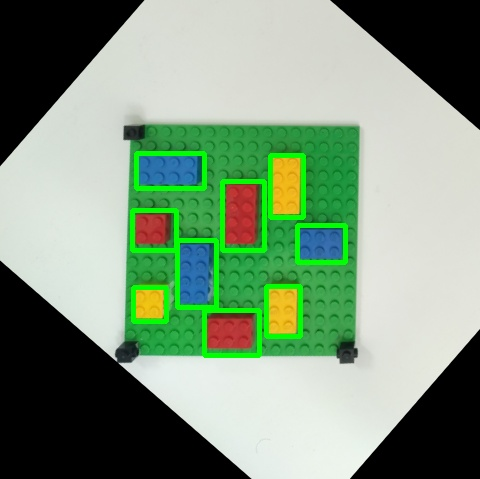
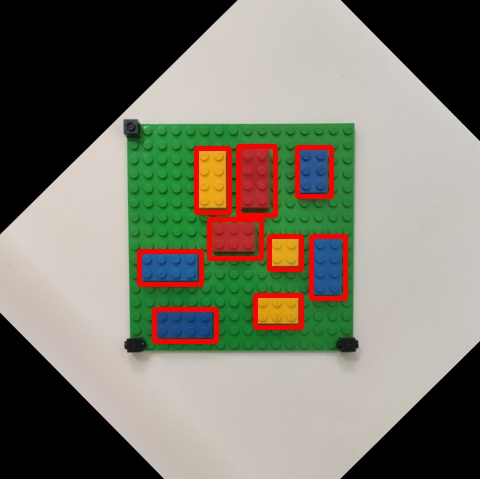
xd

diff --git a/components_detector.py b/components_detector.py
@@ -226,9 +226,42 @@ def Proceso(img_ubicacion, calibrar):
     cv2.waitKey(0)
     cv2.destroyAllWindows()
     
+    img_gray = cv2.cvtColor(image_translated, cv2.COLOR_BGR2GRAY)
+    #hacemos un threshold
+    (T, threshImg) = cv2.threshold(img_gray, 0, 255, cv2.THRESH_BINARY_INV | cv2.THRESH_OTSU)
+    cv2.imshow(" ",threshImg)
+    cv2.waitKey(0) 
+    cv2.destroyAllWindows()
+    
+    #Aplicamos componentes conectados
+    conn = 4
+    output = cv2.connectedComponentsWithStats(threshImg, conn, cv2.CV_32S)
+    (numLabels, labels, stats, centroids) = output
+    for i in range(0, 2):
+    # extract the connected component statistics and centroid for
+    # the current label
+      x = stats[i, cv2.CC_STAT_LEFT]
+      y = stats[i, cv2.CC_STAT_TOP]
+      w = stats[i, cv2.CC_STAT_WIDTH]
+      h = stats[i, cv2.CC_STAT_HEIGHT]
+      area = stats[i, cv2.CC_STAT_AREA]
+      (cX, cY) = centroids[i]
+      print("Label No {}".format(i))
+      # Imprimir las medidas, área, centroide del objeto
+      print("Label No {}: Longitud: {}, Altura: {}, Área: {}, Centroide: ({}, {})".format(i, w, h, area, int(cX), int(cY)))
+      output = image_translated.copy()
+      cv2.rectangle(output, (x, y), (x + w, y + h), (0, 255, 0), 3)
+      cv2.circle(output, (int(cX), int(cY)), 4, (0, 0, 255), -1)
+      cv2.imshow(" ",output)
+      cv2.waitKey(0) 
+      cv2.destroyAllWindows()
+      
+      #Detectamos el Lego centro de la pieza
+      if(i==1):
+          Lego_esperado = (int(x), int(y + h))
+          
     hsv_image = cv2.cvtColor(image_translated, cv2.COLOR_BGR2HSV)
     # Aplicar umbral para obtener los Legos negros
-
     lower_black = np.array([0, 0, 0])  # Valor mínimo de H, S y V para negro
     upper_black = np.array([179, 255, 30])  # Valor máximo de H, S y V para negro
 
@@ -274,9 +307,9 @@ def Proceso(img_ubicacion, calibrar):
         (cX, cY) = centroids[i]
         # ensure the width, height, and area are all neither too small
         # nor too big
-        keepWidth = w > 8 and w < 30
-        keepHeight = h > 8 and h < 30
-        keepArea = area > 80 and area < 700
+        keepWidth = w > 8 and w < 50
+        keepHeight = h > 8 and h < 50
+        keepArea = area > 80 and area < 1000
         # ensure the connected component we are examining passes all
         # three tests
         if all((keepWidth, keepHeight, keepArea)):
@@ -311,7 +344,7 @@ def Proceso(img_ubicacion, calibrar):
             Lego_cercano = centroides[i]
     print("El Lego más cercano a los otros dos en términos de distancia en ambos ejes es: {}".format(Lego_cercano))
     #Lego esperado es donde deberia estar el Lego mas cercano a los otros (esto se calibra manualmente)
-    Lego_esperado= (136,347)
+    #Lego_esperado= (136,347)
     # Coordenadas del Lego de referencia (Centro de la imagen)
     x1, y1 = Lego_centro_imagen
     # Coordenadas del primer Lego (Lego_cercano)
